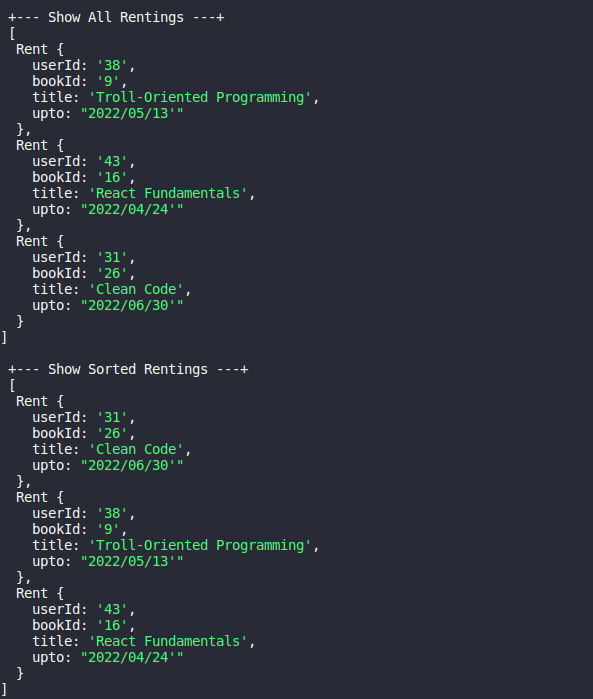
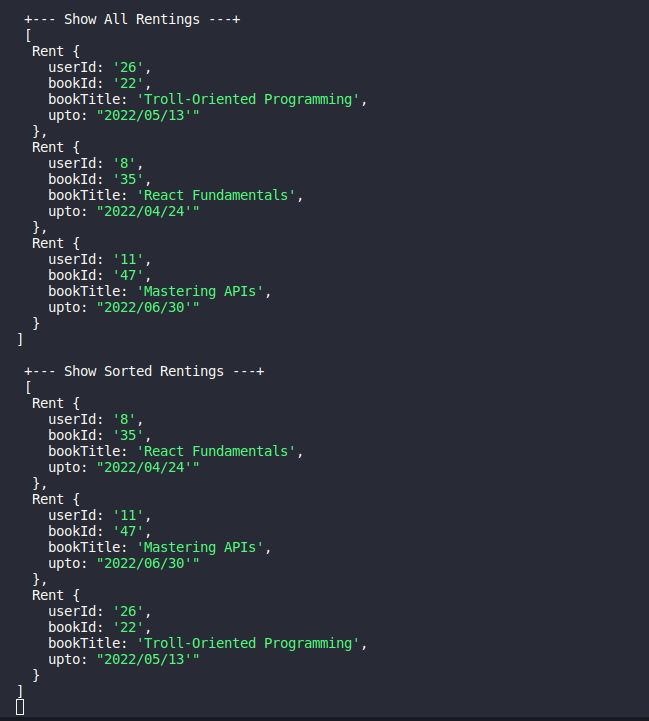
updating image

Changed region(s): [[0.0, 0.5107, 0.5464, 1.0], [0.0, 0.0, 0.5464, 0.4807], [0.3339, 0.0, 0.3946, 0.03]]

diff --git a/src/index.ts b/src/index.ts
@@ -69,30 +69,30 @@ console.log("\n +--- Show Sorted Users ---+ \n", facade.findSortedUsers());
 const rent1 = {
   userId: userId,
   bookId: bookId,
-  title: bookTitle,
+  bookTitle: bookTitle,
   upto: "2022/05/13'",
 };
 
 const rent2 = {
   userId: userId2,
   bookId: bookId2,
-  title: bookTitle2,
+  bookTitle: bookTitle2,
   upto: "2022/04/24'",
 };
 
 const rent3 = {
   userId: userId3,
   bookId: bookId3,
-  title: bookTitle3,
+  bookTitle: bookTitle3,
   upto: "2022/06/30'",
 };
 
 //RENT
-facade.rent(rent1.userId, rent1.bookId, rent1.title, rent1.upto);
+facade.rent(rent1.userId, rent1.bookId, rent1.bookTitle, rent1.upto);
 
-facade.rent(rent2.userId, rent2.bookId, rent2.title, rent2.upto);
+facade.rent(rent2.userId, rent2.bookId, rent2.bookTitle, rent2.upto);
 
-facade.rent(rent3.userId, rent3.bookId, rent3.title, rent3.upto);
+facade.rent(rent3.userId, rent3.bookId, rent3.bookTitle, rent3.upto);
 
 //SHOW ALL RENTINGS
 console.log("\n +--- Show All Rentings ---+ \n", facade.showAllRentings());

diff --git a/src/Books/Book.ts b/src/Books/Book.ts
@@ -77,22 +77,22 @@ export class BookService {
 export class Rent {
   userId: string;
   bookId: string;
-  title: string;
+  bookTitle: string;
   upto: string;
 
-  constructor(userId: string, bookId: string, title: string, upto: string) {
+  constructor(userId: string, bookId: string, bookTitle: string, upto: string) {
     this.userId = userId;
     this.bookId = bookId;
-    this.title = title;
+    this.bookTitle = bookTitle;
     this.upto = upto;
   }
 }
 
 export class RentService {
   rents: Rent[] = [];
-  rent(userId: string, bookId: string, title: string, upto: string) {
+  rent(userId: string, bookId: string, bookTitle: string, upto: string) {
     try {
-      const rentBook = new Rent(userId, bookId, title, upto);
+      const rentBook = new Rent(userId, bookId, bookTitle, upto);
       this.rents.push(rentBook);
       return rentBook;
     } catch (error) {

diff --git a/README.md b/README.md
@@ -30,5 +30,5 @@
 
 ## Code Example
 
-<img src="./src/Image/lib1.png" align="center" alt="Code example">
-<img src="./src/Image/lib2.png" align="center" alt="Code example">
+<img src="./src/Image/lib1.png" widht="200px" align="center" alt="Code example">
+<img src="./src/Image/lib2.png" widht="200px" align="center" alt="Code example">
